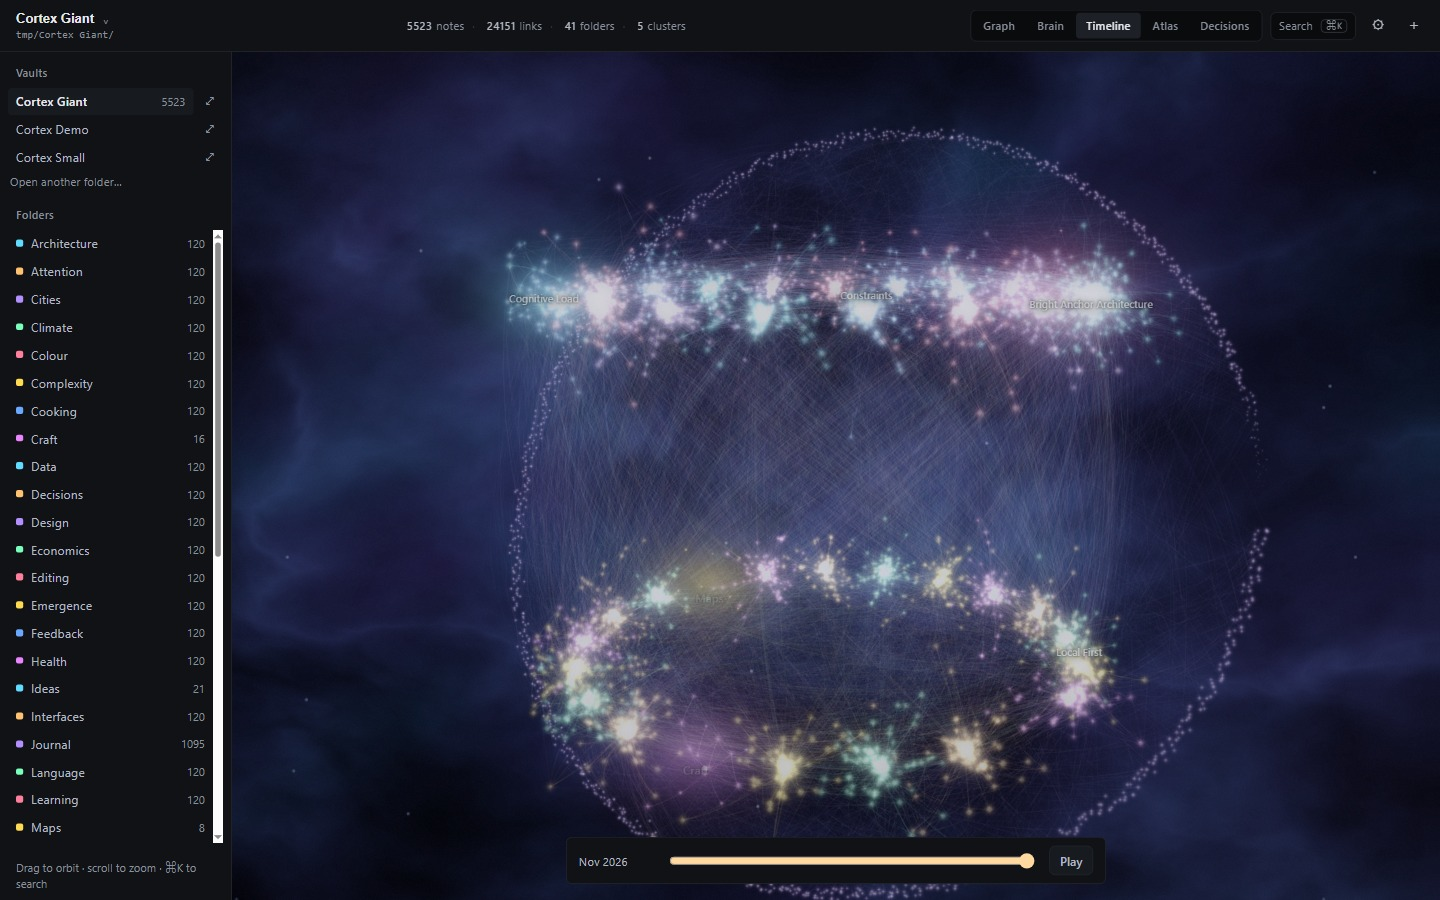
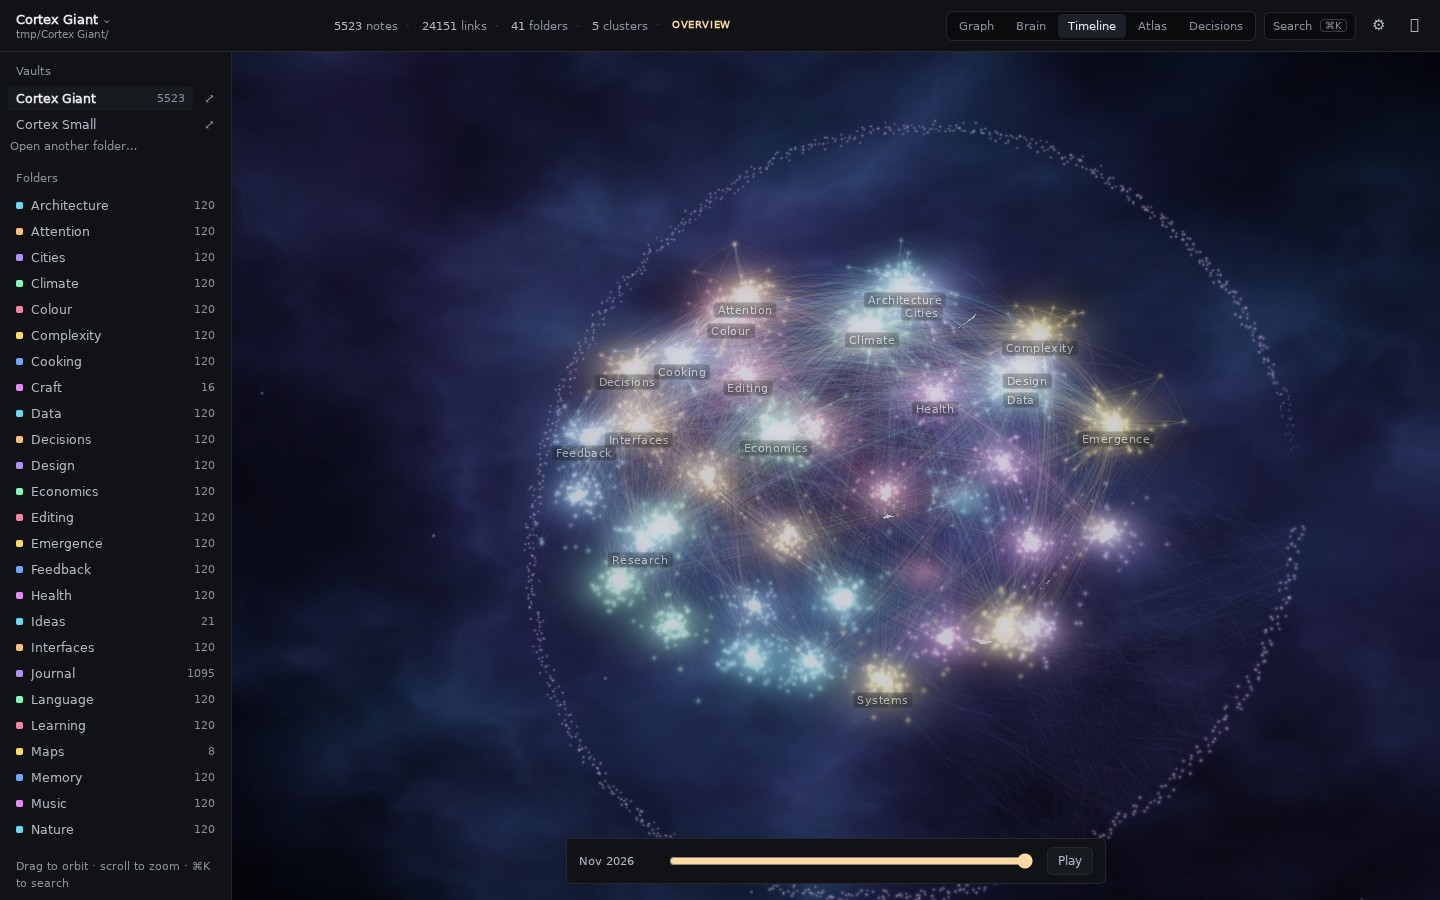
Version 0.6.1 with the giant vault's overview
Refresh the giant gallery so it shows the folder overview, and state that
seed-demo writes demos locally instead of downloading them.

🤖 Generated with Codebuff

diff --git a/README.md b/README.md
@@ -21,6 +21,11 @@ medium one is the full tour, and the giant one is the stress test: **5,523
 notes, 24,151 links, 41 folders, zero unresolved links.** Every screenshot
 below is a different seeded vault, not a mock-up.
 
+Above 1,200 notes Cortex switches to a folder-level **overview**: notes keep
+their real positions, but the graph labels folders instead of a dozen
+individual stars, draws only the strongest 10,000 links, and the atlas turns
+dense folders into light stipple. Hover or select a note for its own label.
+
 ### Small — 21 notes, 35 links
 
 | | |
@@ -48,9 +53,9 @@ below is a different seeded vault, not a mock-up.
 | | |
 | --- | --- |
 | ![Giant vault: graph view](docs/screenshots/giant/01-graph.jpg) | ![Giant vault: brain view](docs/screenshots/giant/02-brain.jpg) |
-| **Graph** — 36 topic galaxies plus a three-year daily journal ring. | **Brain** — every note inside the cortex; brightness compensates for density. |
+| **Graph** — 36 labelled topic galaxies over a sphere, plus a three-year daily journal ring. | **Brain** — topic folders on the cortex; diary entries form the core. |
 | ![Giant vault: timeline view](docs/screenshots/giant/03-timeline.jpg) | ![Giant vault: atlas view](docs/screenshots/giant/04-atlas.jpg) |
-| **Timeline** — four years of entries replayed. | **Atlas** — 41 countries; dense folders become stippled provinces. |
+| **Timeline** — four years of entries replayed. | **Atlas** — 41 countries; dense folders are stipple, not a wall of black badges. |
 | ![Giant vault: decisions view](docs/screenshots/giant/05-decisions.jpg) | |
 | **Decisions** — 26 cards across open and refining, each with real sources. | |
 
@@ -61,6 +66,9 @@ cargo run -p cortex -- seed-demo demo --size medium    # 328 notes (default)
 cargo run -p cortex -- seed-demo demo --size large     # 5,523 notes
 cargo run -p cortex -- serve demo                      # open one folder directly
 ```
+
+All three vaults are written by `seed-demo` from the binary itself. No demo
+vault is downloaded, and nothing is fetched from GitHub at startup.
 
 ## Opening a folder
 
@@ -294,7 +302,7 @@ https://github.com/thijnperd/obsidian-cortex/releases
 | macOS (Apple silicon) | `cortex-macos-arm64.tar.gz` |
 | Linux x86-64 | `cortex-linux-x86_64.tar.gz` |
 
-Tagged releases (`v0.6.0`) are fixed; every push to `main` also refreshes the
+Tagged releases (`v0.6.1`) are fixed; every push to `main` also refreshes the
 rolling `latest` build. The version appears in `cortex --version`, in **Vault
 settings → About**, and on `/api/about`. `SHA256SUMS.txt` is attached to every
 release.
